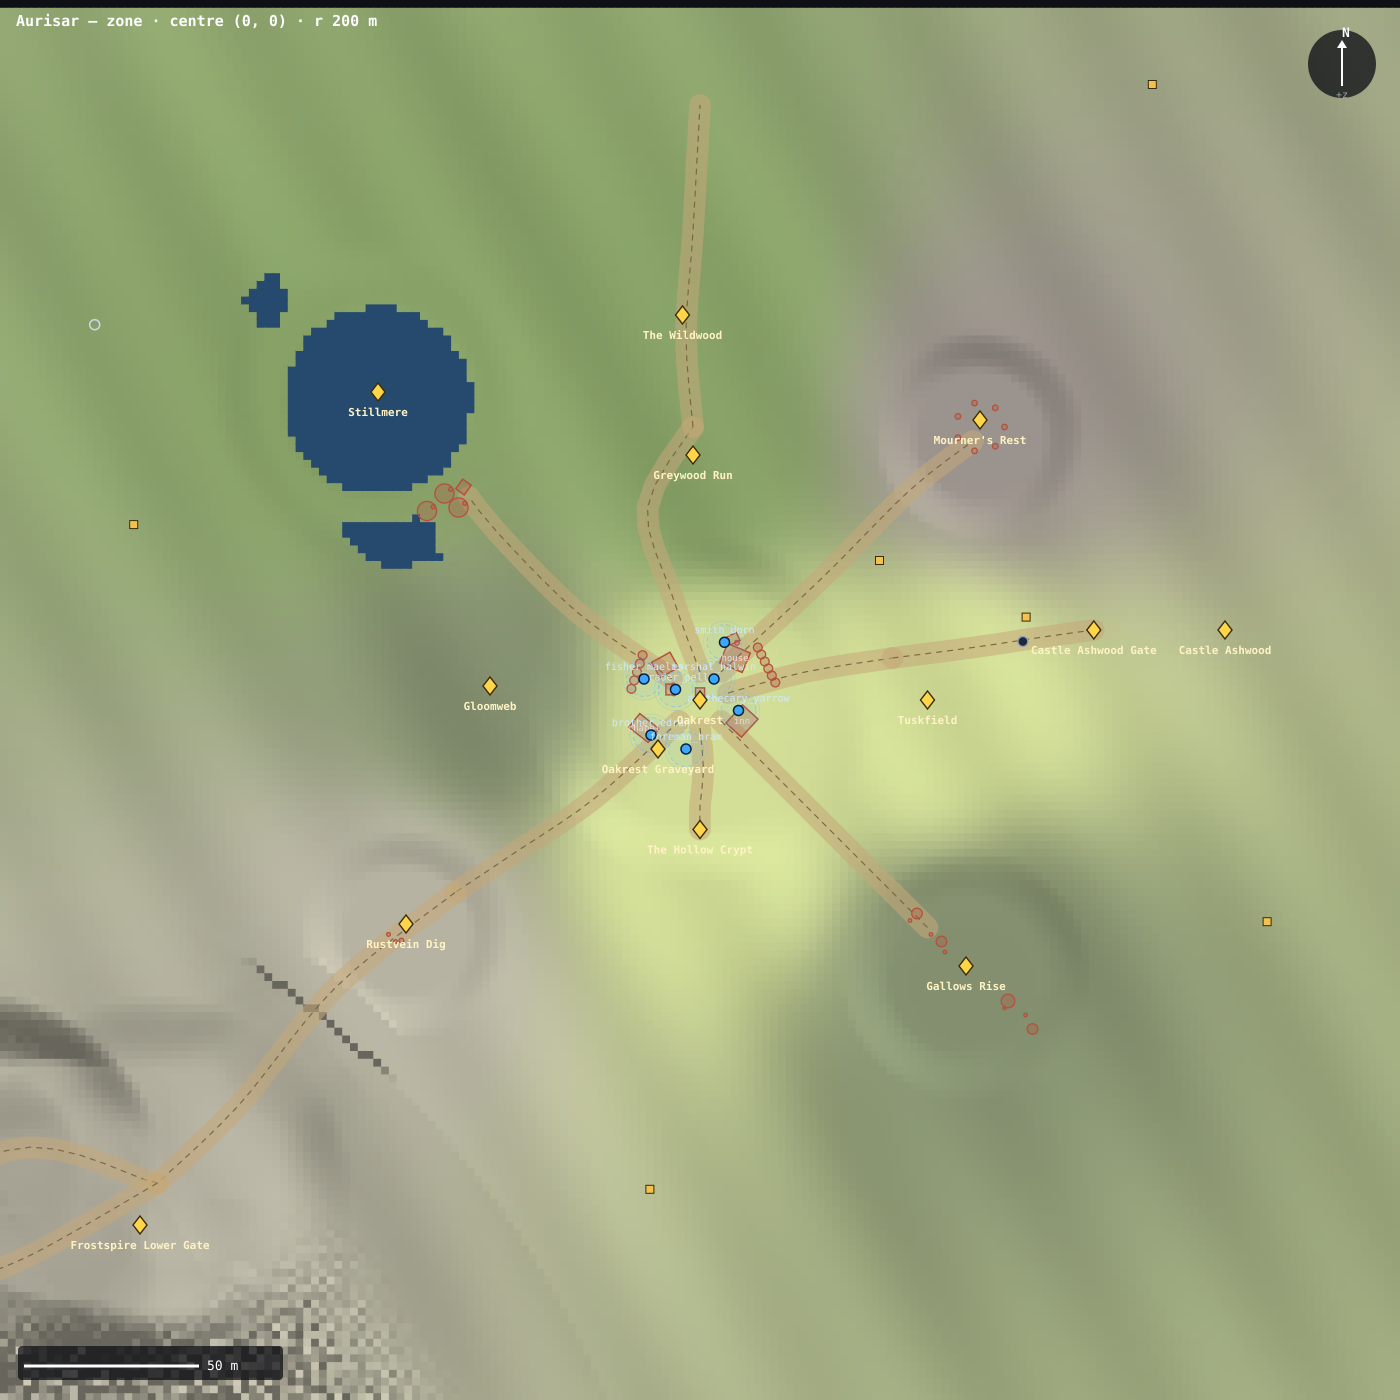
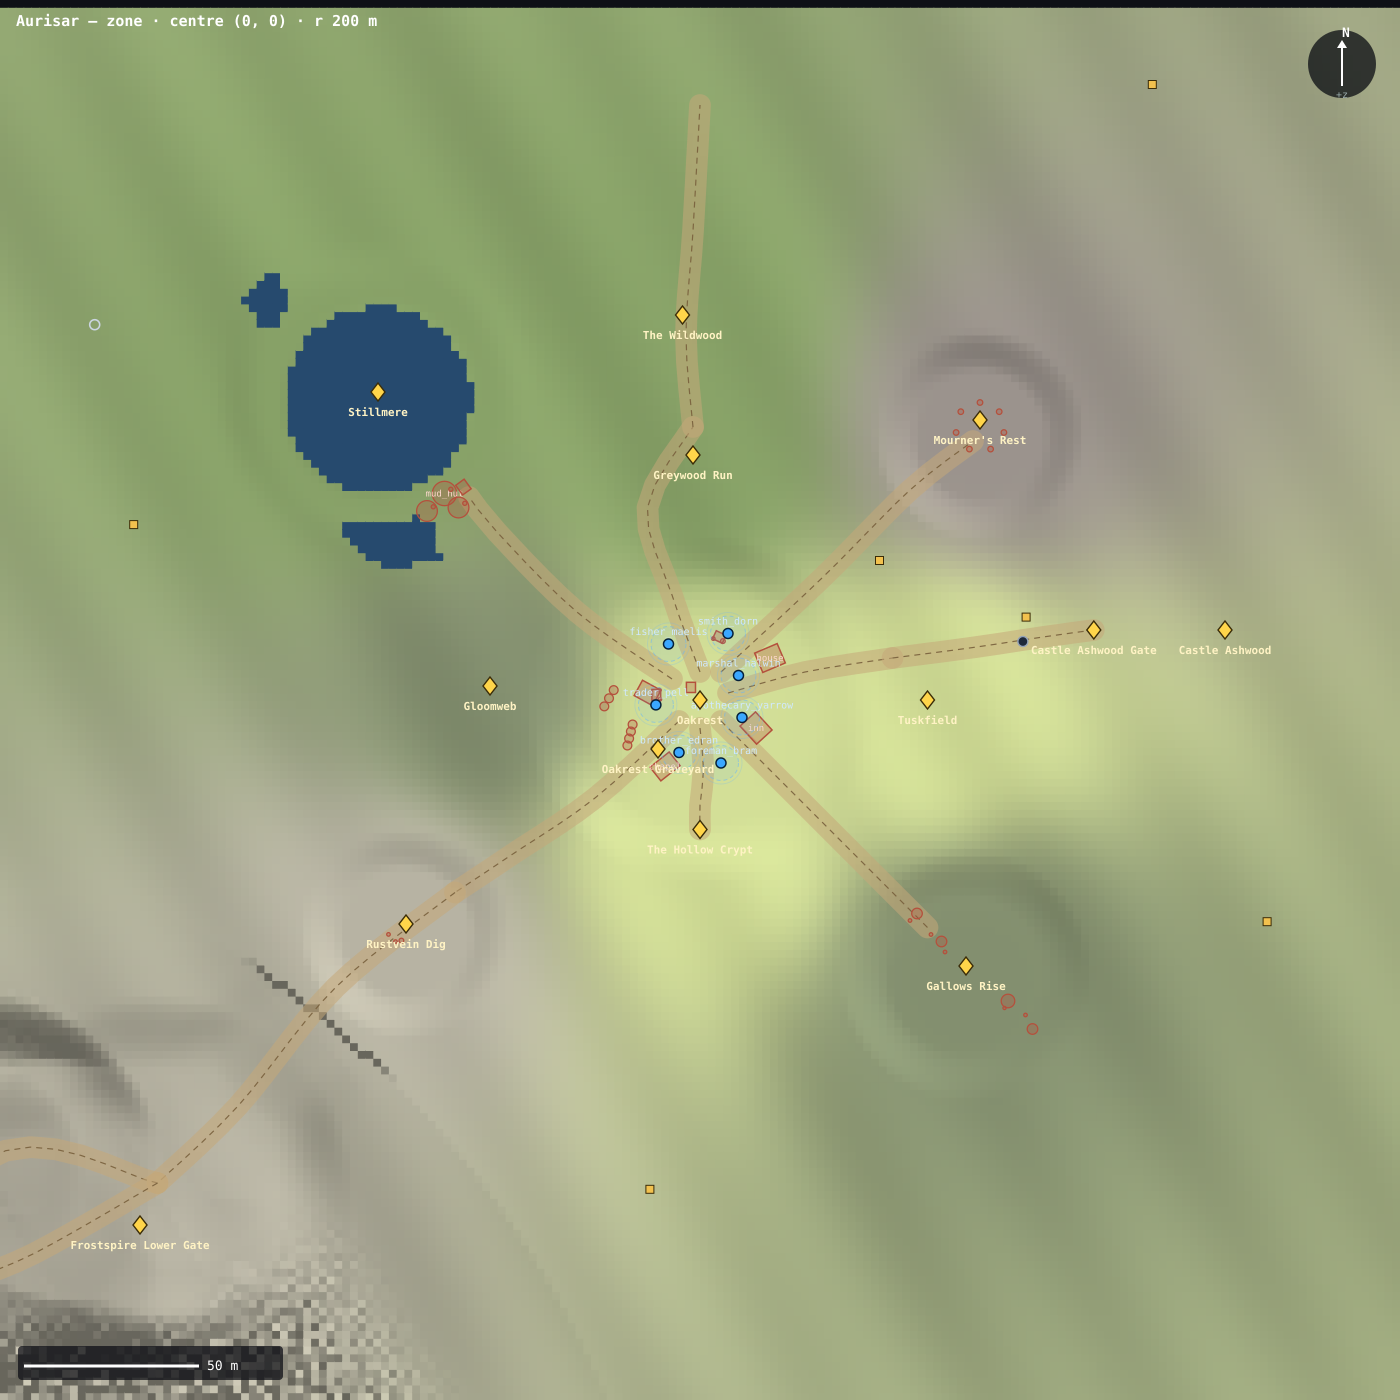
Batch E review fixes: rotation inverse, shelf seam, ring convention, throats
Address PR #283's multi-agent review — the full fix-before-merge set plus
the cheap follow-ups. Verified per finding:

H1  propColliders inverted the rotation with the FORWARD formula — collision
    was mirrored on every non-cardinal building (invisible at the pi/2 the
    original test used). Now the transposed inverse; the plan renderer's
    matching sign flip fixed too; regression test at rot -0.4 uses
    localToWorld as the oracle.
H2  lowlandShelf gated on inMountain (margin 292) while mtnH carves to r=280,
    leaving a 12 m no-mans annulus with a ~5 m cliff across the Rustvein
    shelf. Now both use r. Measured: 0.000 m step across d=280 within the
    footprint (was 2.82 m); all three GOLDEN digests unchanged (CONFIG-SAFE).
H3  (stopgap) ruin-ring colliders used cos/sin transposed from PropsSystem's
    sin/cos — every pillar walk-through with invisible walls elsewhere; fixed
    to match. timber_pillar 1.1->1.0; mud_hut colliders now reproduce
    PropsSystem's rand-scale hash (shared propRand). Full PropsSystem
    rewiring to the footprint table stays a named follow-up.
H4  NE house moved (14,10)->(20,12), W house ->(-15,2), well ->(-2.6,3.6) —
    positions solved numerically against carriageway sampling, respawn
    margin, NPC margins and the shelf; trader_pell renudged to (-12.6,-1.4).
H5  hubLayout road test now samples the carriageway itself with blocked()
    (five offsets per curve point) instead of trusting collider centres.
[…]

Changed region(s): [[0.43, 0.43, 0.5836, 0.5529], [0.3071, 0.3379, 0.3379, 0.3686]]

diff --git a/src/features/world/systems/propColliders.js b/src/features/world/systems/propColliders.js
@@ -21,8 +21,8 @@
  *
  *  • "Already inside can always walk out." A collider added under a standing
  *    player must never trap them. This matters more here than in the castle:
- *    the server respawns every death to exactly (0,0), and the well at (0,2)
- *    leaves only 0.20 m of clearance, so this escape is load-bearing on a
+ *    the server respawns every death to exactly (0,0), and the well beside the spawn
+ *    leaves well under a metre of clearance, so this escape is load-bearing on a
  *    routine path, not an edge case.
  *
  *  • Geometry comes from the shared table in propFootprints.js, so a prop and
@@ -34,8 +34,12 @@
 
 import { buildPropColliders } from './propFootprints.js';
 
-/** Matches castlePlan's PLAYER_R so the two systems feel identical. */
-export const PLAYER_R = 0.35;
+import { PLAYER_R as CASTLE_PLAYER_R } from '../castle/castlePlan.js';
+
+/** THE player radius — re-exported from castlePlan so the two collision
+ *  systems can never drift apart (a copied literal here passed its test
+ *  forever regardless of the castle's value). */
+export const PLAYER_R = CASTLE_PLAYER_R;
 
 /** Spatial hash cell size (m). Props cluster in settlements, so a coarse grid
  *  keeps the per-move candidate set at a handful without a build-time cost. */
@@ -61,8 +65,14 @@ export function createPropColliders(props) {
     } else {
       c._hw = c.w / 2 + PLAYER_R;
       c._hd = c.d / 2 + PLAYER_R;
-      c._cos = Math.cos(-(c.rot ?? 0));
-      c._sin = Math.sin(-(c.rot ?? 0));
+      // Inverse of localToWorld's left-handed rotation [[c,s],[-s,c]] is its
+      // transpose [[c,-s],[s,c]] — so cache cos/sin of +rot and apply the
+      // TRANSPOSED form in blocked(). The old code cached cos/sin of -rot and
+      // applied the forward form, which re-applies the rotation instead of
+      // inverting it: collision was MIRRORED on every non-cardinal building
+      // (caught by review; invisible at the pi/2 the original test used).
+      c._cos = Math.cos(c.rot ?? 0);
+      c._sin = Math.sin(c.rot ?? 0);
     }
     c._reach = c.kind === 'circle' ? c.r + PLAYER_R : Math.hypot(c._hw, c._hd);
   }
@@ -96,6 +106,7 @@ export function createPropColliders(props) {
         // Into the rect's local frame, then a plain AABB test.
         const lx = dx * c._cos - dz * c._sin;
         const lz = dx * c._sin + dz * c._cos;
+        // (transposed inverse: lx = c*dx - s*dz, lz = s*dx + c*dz)
         if (Math.abs(lx) < c._hw && Math.abs(lz) < c._hd) return true;
       }
     }

diff --git a/src/features/world/systems/propFootprints.js b/src/features/world/systems/propFootprints.js
@@ -48,12 +48,20 @@ export const PROP_FOOTPRINTS = {
   mud_hut:         { uniform: 5.5 },
   mud_hut_small:   { uniform: 1.2, local: [1.8, 1.2] },
   ruin_column:     { uniform: 1.6 },
-  timber_pillar:   { uniform: 1.1 },
+  timber_pillar:   { uniform: 1.0 },  // matches PropsSystem's literal exactly
   ore_rocks:       { uniform: 1.4, local: [2.4, 1.4] },
   dock_platform:   { uniform: 2.4, walkable: true },
   dock_hut:        { fit: [3.4, 3.0, 3.0], local: [2.8, 2.4] },
   rowboat:         { uniform: 2.6, walkable: true },
 };
+
+/** PropsSystem's deterministic per-position hash (frac(sin dot-noise)) —
+ *  reproduced here so colliders can match rand-scaled props exactly. Keep in
+ *  step with PropsSystem.rand. */
+export function propRand(x, z) {
+  const h = Math.sin(x * 12.9898 + z * 78.233) * 43758.5453;
+  return h - Math.floor(h);
+}
 
 /** Fence modules are laid every FENCE_MODULE_M along the segment. */
 export const FENCE_MODULE_M = 2.35;
@@ -117,7 +125,10 @@ export function buildPropColliders(props) {
     push(circOf(key, c.x, c.z, PROP_FOOTPRINTS[key].uniform), key);
   }
   for (const h of props.mudHuts ?? []) {
-    push(circOf('mud_hut', h.x, h.z, PROP_FOOTPRINTS.mud_hut.uniform), 'mud_hut');
+    // PropsSystem scales huts by 5.5 + rand(x,z)*1.5 with its deterministic
+    // hash; reproduce it so the collider matches the rendered hut, not the
+    // minimum one.
+    push(circOf('mud_hut', h.x, h.z, PROP_FOOTPRINTS.mud_hut.uniform + propRand(h.x, h.z) * 1.5), 'mud_hut');
     const s = PROP_FOOTPRINTS.mud_hut_small;
     push(circOf('mud_hut_small', h.x + s.local[0], h.z + s.local[1], s.uniform), 'mud_hut_small');
   }
@@ -125,7 +136,11 @@ export function buildPropColliders(props) {
     const cols = r.columns ?? 8;
     for (let i = 0; i < cols; i++) {
       const a = (i / cols) * Math.PI * 2;
-      push(circOf('ruin_column', r.x + Math.cos(a) * r.ringR, r.z + Math.sin(a) * r.ringR,
+      // PropsSystem places columns at (x + sin a * R, z + cos a * R) — match
+      // it exactly; the cos/sin transposition put every collider on a
+      // DISJOINT ring from the rendered pillars (all walk-through, with
+      // invisible walls elsewhere).
+      push(circOf('ruin_column', r.x + Math.sin(a) * r.ringR, r.z + Math.cos(a) * r.ringR,
         PROP_FOOTPRINTS.ruin_column.uniform), 'ruin_column');
     }
   }

diff --git a/spacetimedb/src/index.ts b/spacetimedb/src/index.ts
@@ -799,6 +799,17 @@ export const movePlayer = spacetimedb.reducer(
     const clampedX = Math.max(WORLD_MIN_PX, Math.min(WORLD_MAX_PX, x));
     const clampedY = Math.max(WORLD_MIN_PX, Math.min(WORLD_MAX_PX, y));
 
+    // Cheap no-op check BEFORE the castle-nav branch: identical inputs against
+    // an already-validated row resolve to the identical row, so bail before
+    // paying pxToWorldM/isInCastleInterior/surfaceAt for a resend. (The full
+    // post-computation dead-band below still catches zoneId/floor no-ops.)
+    if (
+      existing.x === clampedX && existing.y === clampedY &&
+      existing.direction === direction % 4 && existing.isMoving === isMoving
+    ) {
+      return;
+    }
+
     // Castle Ashwood interior: reject moves into nav-blocked columns (walls,
     // furniture footprints baked into emitted nav bitmaps). Outside the
     // interior footprint this returns null and we fall through to normal px clamp.
@@ -997,7 +1008,12 @@ export const sendChat = spacetimedb.reducer(
     const rows = [...ctx.db.chatMessage.iter()];
     if (rows.length > CHAT_MAX_ROWS) {
       rows.sort((a, b) => (a.id < b.id ? -1 : a.id > b.id ? 1 : 0));
-      for (const old of rows.slice(0, rows.length - CHAT_MAX_ROWS)) {
+      // Bounded per call: delete-by-value is O(table) each, so an unbounded
+      // drain of a large pre-cap backlog could blow the reducer budget and
+      // abort the transaction INCLUDING the insert — chat would fail closed
+      // and retry the same doomed work forever. 50/call converges to the same
+      // steady state with no cliff.
+      for (const old of rows.slice(0, Math.min(rows.length - CHAT_MAX_ROWS, 50))) {
         ctx.db.chatMessage.delete(old);
       }
     }

diff --git a/src/features/world/game/CharacterAvatar.js b/src/features/world/game/CharacterAvatar.js
@@ -145,6 +145,7 @@ export class CharacterAvatar {
     // per-frame work stops. Mirrors MobAnimator.setSuspended.
     this._animSuspended = false;
     this._labelPlane    = null;
+    this._nameplateVisible = true;
 
     // Box fallback state
     this._useFallback   = false;
@@ -422,9 +423,20 @@ export class CharacterAvatar {
     const next = !!on;
     if (next === this._animSuspended) return;
     this._animSuspended = next;
-    if (next) this._animCtl?.suspend();
-    else this._animCtl?.resume();
+    if (next) {
+      this._animCtl?.suspend();
+    } else {
+      this._animCtl?.resume();
+      // Reset the displacement-speed measurement: the first post-resume frame
+      // otherwise divides the WHOLE gated drift by one dt (~0.6 m reads as
+      // ~36 m/s) and pins the run blend for a beat (review M12). _lastX=null
+      // is the measurer's own first-frame sentinel.
+      this._lastX = null;
+      this._lastZ = null;
+      this._speedMps = 0;
+    }
     if (this._labelPlane) this._labelPlane.setEnabled(!next);
+    this._nameplateVisible = !next;
   }
 
   /** True while crowd-gated. */
@@ -435,7 +447,10 @@ export class CharacterAvatar {
    * nameplate cap hides labels on avatars that are still animating.
    */
   setNameplateVisible(on) {
-    if (this._labelPlane) this._labelPlane.setEnabled(!!on && !this._animSuspended);
+    const next = !!on && !this._animSuspended;
+    if (next === this._nameplateVisible) return; // idempotent — called per-frame
+    this._nameplateVisible = next;
+    if (this._labelPlane) this._labelPlane.setEnabled(next);
   }
 
   update(dt) {

diff --git a/src/features/world/systems/propColliders.test.js b/src/features/world/systems/propColliders.test.js
@@ -147,3 +147,26 @@ describe('propFootprints geometry', () => {
     expect(PLAYER_R).toBe(0.35);
   });
 });
+
+describe('rotation inverse (review H1 regression)', () => {
+  // The original rotation test used pi/2, the one angle where a sign error in
+  // the inverse is invisible (symmetric extents). Pin a non-cardinal angle
+  // using localToWorld — the pinned-correct forward transform — as the oracle:
+  // a point just inside a local corner must be blocked; its mirror must not.
+  it('agrees with localToWorld at rot -0.4 (the real NE house)', () => {
+    const P = createPropColliders({
+      buildings: [{ kind: 'house', x: 20, z: 12, w: 7, d: 6, rot: -0.4 }],
+    });
+    const inside = localToWorld(20, 12, -0.4, 3.0, 2.5);   // inside 3.5 x 3 extents
+    const outside = localToWorld(20, 12, -0.4, 4.2, 3.7);  // past both + PLAYER_R
+    expect(P.blocked(inside.x, inside.z)).toBe(true);
+    expect(P.blocked(outside.x, outside.z)).toBe(false);
+    // The MIRRORED bug blocked the reflection instead — assert a point the old
+    // code wrongly blocked (reflect local z) is open.
+    const mirrored = localToWorld(20, 12, 0.4, 3.0, 2.5);
+    const dx = mirrored.x - 20, dz = mirrored.z - 12;
+    if (Math.hypot(dx, dz) > Math.hypot(3.5 + 0.35, 3 + 0.35)) {
+      expect(P.blocked(mirrored.x, mirrored.z)).toBe(false);
+    }
+  });
+});

diff --git a/src/features/world/content/__tests__/hubLayout.test.ts b/src/features/world/content/__tests__/hubLayout.test.ts
@@ -73,12 +73,21 @@ describe('Oakrest hub layout', () => {
   });
 
   it('no prop collider blocks a carriageway near the hub', () => {
-    for (const c of P.colliders) {
-      if (Math.hypot(c.x, c.z) > 45) continue;
-      const d = roadDist(c.x, c.z);
-      expect(d, `${c.label} at (${c.x.toFixed(1)},${c.z.toFixed(1)}) is ${d.toFixed(1)}m from a road centreline`)
-        .toBeGreaterThanOrEqual(HALF_W);
+    // Centre-distance alone let a 7x6 house pass while its corner stood in
+    // the road (review H5). Two checks: the centre must clear the road by the
+    // collider's REACH, and — exact and cheap — sample the carriageway itself
+    // with blocked(): no sampled road point may be solid.
+    let solid = 0;
+    const offenders: string[] = [];
+    for (const curve of wg.trailCurves) {
+      for (const [px, pz] of curve) {
+        if (Math.hypot(px, pz) > 45) continue;
+        for (const [ox, oz] of [[0, 0], [HALF_W - 0.1, 0], [-(HALF_W - 0.1), 0], [0, HALF_W - 0.1], [0, -(HALF_W - 0.1)]]) {
+          if (P.blocked(px + ox, pz + oz)) { solid++; offenders.push(`(${(px + ox).toFixed(1)},${(pz + oz).toFixed(1)})`); }
+        }
+      }
     }
+    expect(solid, `solid carriageway samples: ${offenders.slice(0, 6).join(' ')}`).toBe(0);
   });
 
   it('the respawn point stays open with margin', () => {

diff --git a/src/features/world/TestingHud.jsx b/src/features/world/TestingHud.jsx
@@ -26,11 +26,13 @@ const BAKE_SIZE = 512;             // terrain bake resolution
 // getPose().yaw is atan2(forward.x, forward.z), so yaw 0 faces +z — which is
 // NORTH (see worldSpace.js). This used to label yaw 0 'S', which is why the
 // wolf quests' "just up the north road" sent players the opposite way.
-const COMPASS_POINTS = [
+// Exported for orientation tests. yaw = atan2(fwd.x, fwd.z) increases
+// CLOCKWISE on a north-up map, so facing east (+x) is yaw +90.
+export const COMPASS_POINTS = [
   { label: 'N', yawDeg:    0 },
-  { label: 'W', yawDeg:   90 },
+  { label: 'E', yawDeg:   90 },
   { label: 'S', yawDeg:  180 },
-  { label: 'E', yawDeg:  -90 },
+  { label: 'W', yawDeg:  -90 },
 ];
 
 export default function TestingHud({ sceneRef, visible = true, mapData = null }) {
@@ -324,7 +326,7 @@ function _renderMinimap(ctx, pose, mobs, { baked, viewRadius, mapData, remotes =
   // Player — triangle at center, rotated to camera yaw
   ctx.save();
   ctx.translate(halfMap, halfMap);
-  ctx.rotate(-pose.yaw);
+  ctx.rotate(pose.yaw); // clockwise yaw on a north-up canvas — NOT negated
   ctx.fillStyle = 'rgba(120, 200, 255, 0.95)';
   ctx.strokeStyle = 'rgba(10, 20, 30, 0.9)';
   ctx.lineWidth = 1;

diff --git a/spacetimedb/src/content/zones/zone1/quests.ts b/spacetimedb/src/content/zones/zone1/quests.ts
@@ -157,7 +157,7 @@ export const QUESTS: QuestDef[] = [
     turnInNpcId: 'marshal_halwin',
     requiresQuestId: 'q_bandits',
     minLevel: 5,
-    text: 'Gorrak the Ruthless has barricaded himself in the treasury vault deep within Castle Ashwood. Enter through the gate on the east side, fight your way to the royal vault on the upper floors, and end him, $N.',
+    text: 'Gorrak the Ruthless has barricaded himself in the treasury vault deep within Castle Ashwood. Take the east road to the castle and enter by the front gate, fight your way to the royal vault on the upper floors, and end him, $N.',
     completionText: 'Gorrak is dead? Then the valley is free of his shadow. You have done the town a great service.',
     objectives: [
       {

diff --git a/src/features/world/content/zones/zone1/quests.ts b/src/features/world/content/zones/zone1/quests.ts
@@ -153,7 +153,7 @@ export const QUESTS: QuestDef[] = [
     turnInNpcId: 'marshal_halwin',
     requiresQuestId: 'q_bandits',
     minLevel: 5,
-    text: 'Gorrak the Ruthless has barricaded himself in the treasury vault deep within Castle Ashwood. Enter through the gate on the east side, fight your way to the royal vault on the upper floors, and end him, $N.',
+    text: 'Gorrak the Ruthless has barricaded himself in the treasury vault deep within Castle Ashwood. Take the east road to the castle and enter by the front gate, fight your way to the royal vault on the upper floors, and end him, $N.',
     completionText: 'Gorrak is dead? Then the valley is free of his shadow. You have done the town a great service.',
     objectives: [
       {

diff --git a/spacetimedb/src/content/zones/zone1/props.ts b/spacetimedb/src/content/zones/zone1/props.ts
@@ -19,13 +19,13 @@ export interface RotPos extends SimplePos { rot: number }
 
 export const ZONE1_PROPS = {
   buildings: [
-    { kind: 'house',  x: 14,  z: 10,  w: 7, d: 6, rot: -0.4 },
-    { kind: 'house',  x: -15, z: 5,   w: 6, d: 5, rot: 0.5 },
+    { kind: 'house',  x: 20,  z: 12,  w: 7, d: 6, rot: -0.4 },
+    { kind: 'house',  x: -15, z: 2,   w: 6, d: 5, rot: 0.5 },
     { kind: 'inn',    x: 16,  z: -8,  w: 6, d: 7, rot: 2.4 },
     { kind: 'chapel', x: -10, z: -19, w: 5, d: 7, rot: 0.9 },
   ] as BuildingProp[],
 
-  wells: [{ x: 0, z: 3.6 }] as SimplePos[],
+  wells: [{ x: -2.6, z: 3.6 }] as SimplePos[],
 
   stalls: [
     { x: -12.5, z: 1.5, rot: Math.PI / 2 },

diff --git a/src/features/world/content/zones/zone1/props.ts b/src/features/world/content/zones/zone1/props.ts
@@ -15,13 +15,13 @@ export interface RotPos extends SimplePos { rot: number }
 
 export const ZONE1_PROPS = {
   buildings: [
-    { kind: 'house',  x: 14,  z: 10,  w: 7, d: 6, rot: -0.4 },
-    { kind: 'house',  x: -15, z: 5,   w: 6, d: 5, rot: 0.5 },
+    { kind: 'house',  x: 20,  z: 12,  w: 7, d: 6, rot: -0.4 },
+    { kind: 'house',  x: -15, z: 2,   w: 6, d: 5, rot: 0.5 },
     { kind: 'inn',    x: 16,  z: -8,  w: 6, d: 7, rot: 2.4 },
     { kind: 'chapel', x: -10, z: -19, w: 5, d: 7, rot: 0.9 },
   ] as BuildingProp[],
 
-  wells: [{ x: 0, z: 3.6 }] as SimplePos[],
+  wells: [{ x: -2.6, z: 3.6 }] as SimplePos[],
 
   stalls: [
     { x: -12.5, z: 1.5, rot: Math.PI / 2 },

diff --git a/src/features/world/worldgen/heightfield.js b/src/features/world/worldgen/heightfield.js
@@ -186,7 +186,11 @@ export function createHeightfield(config, zones) {
    * footprint reaches the lake's influence radius.
    */
   function lowlandShelf(x, z) {
-    if (zones.inMountain(x, z)) return null;
+    // Gate on the SAME boundary mtnH carves to (mountain.r), not on
+    // zones.inMountain (mountain.margin, 12 m wider) — gating on margin left
+    // an annulus where neither function shaped terrain, which put a ~5 m
+    // cliff and a sunken moat across the Rustvein Dig shelf footprint.
+    if (Math.hypot(x - M.x, z - M.z) < M.r) return null;
     const p = plateauInfo(x, z);
     return p.weight > 0 ? p : null;
   }
